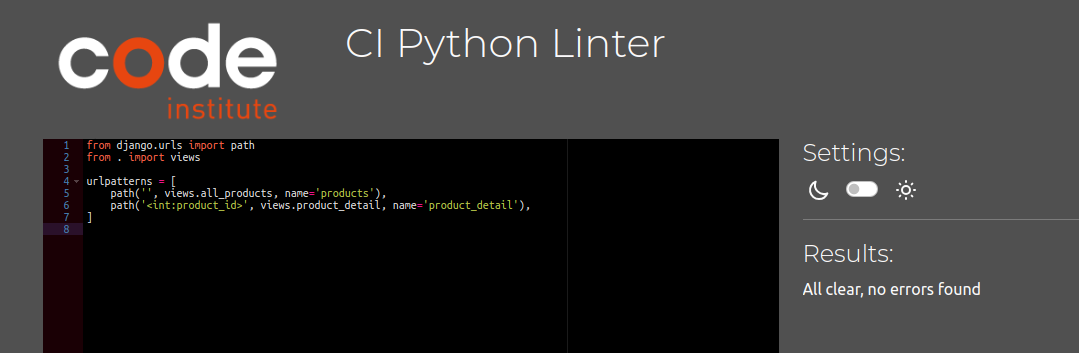
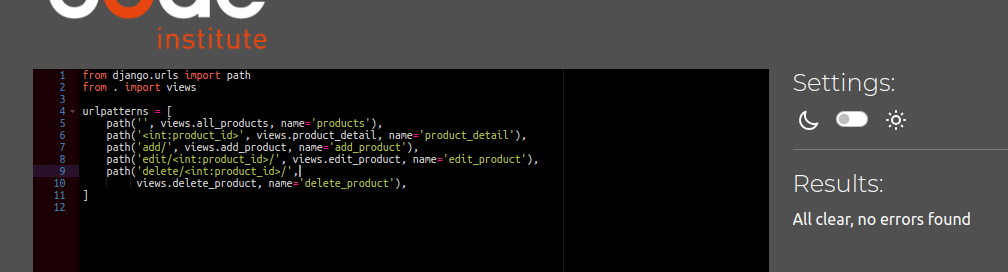
pep8 style changes

Changed region(s): [[0.0308, 0.0, 1.0, 1.0], [0.3075, 0.0588, 0.6151, 0.1765]]

diff --git a/products/urls.py b/products/urls.py
@@ -6,5 +6,6 @@ urlpatterns = [
     path('<int:product_id>', views.product_detail, name='product_detail'),
     path('add/', views.add_product, name='add_product'),
     path('edit/<int:product_id>/', views.edit_product, name='edit_product'),
-    path('delete/<int:product_id>/', views.delete_product, name='delete_product'),
+    path('delete/<int:product_id>/',
+         views.delete_product, name='delete_product'),
 ]
